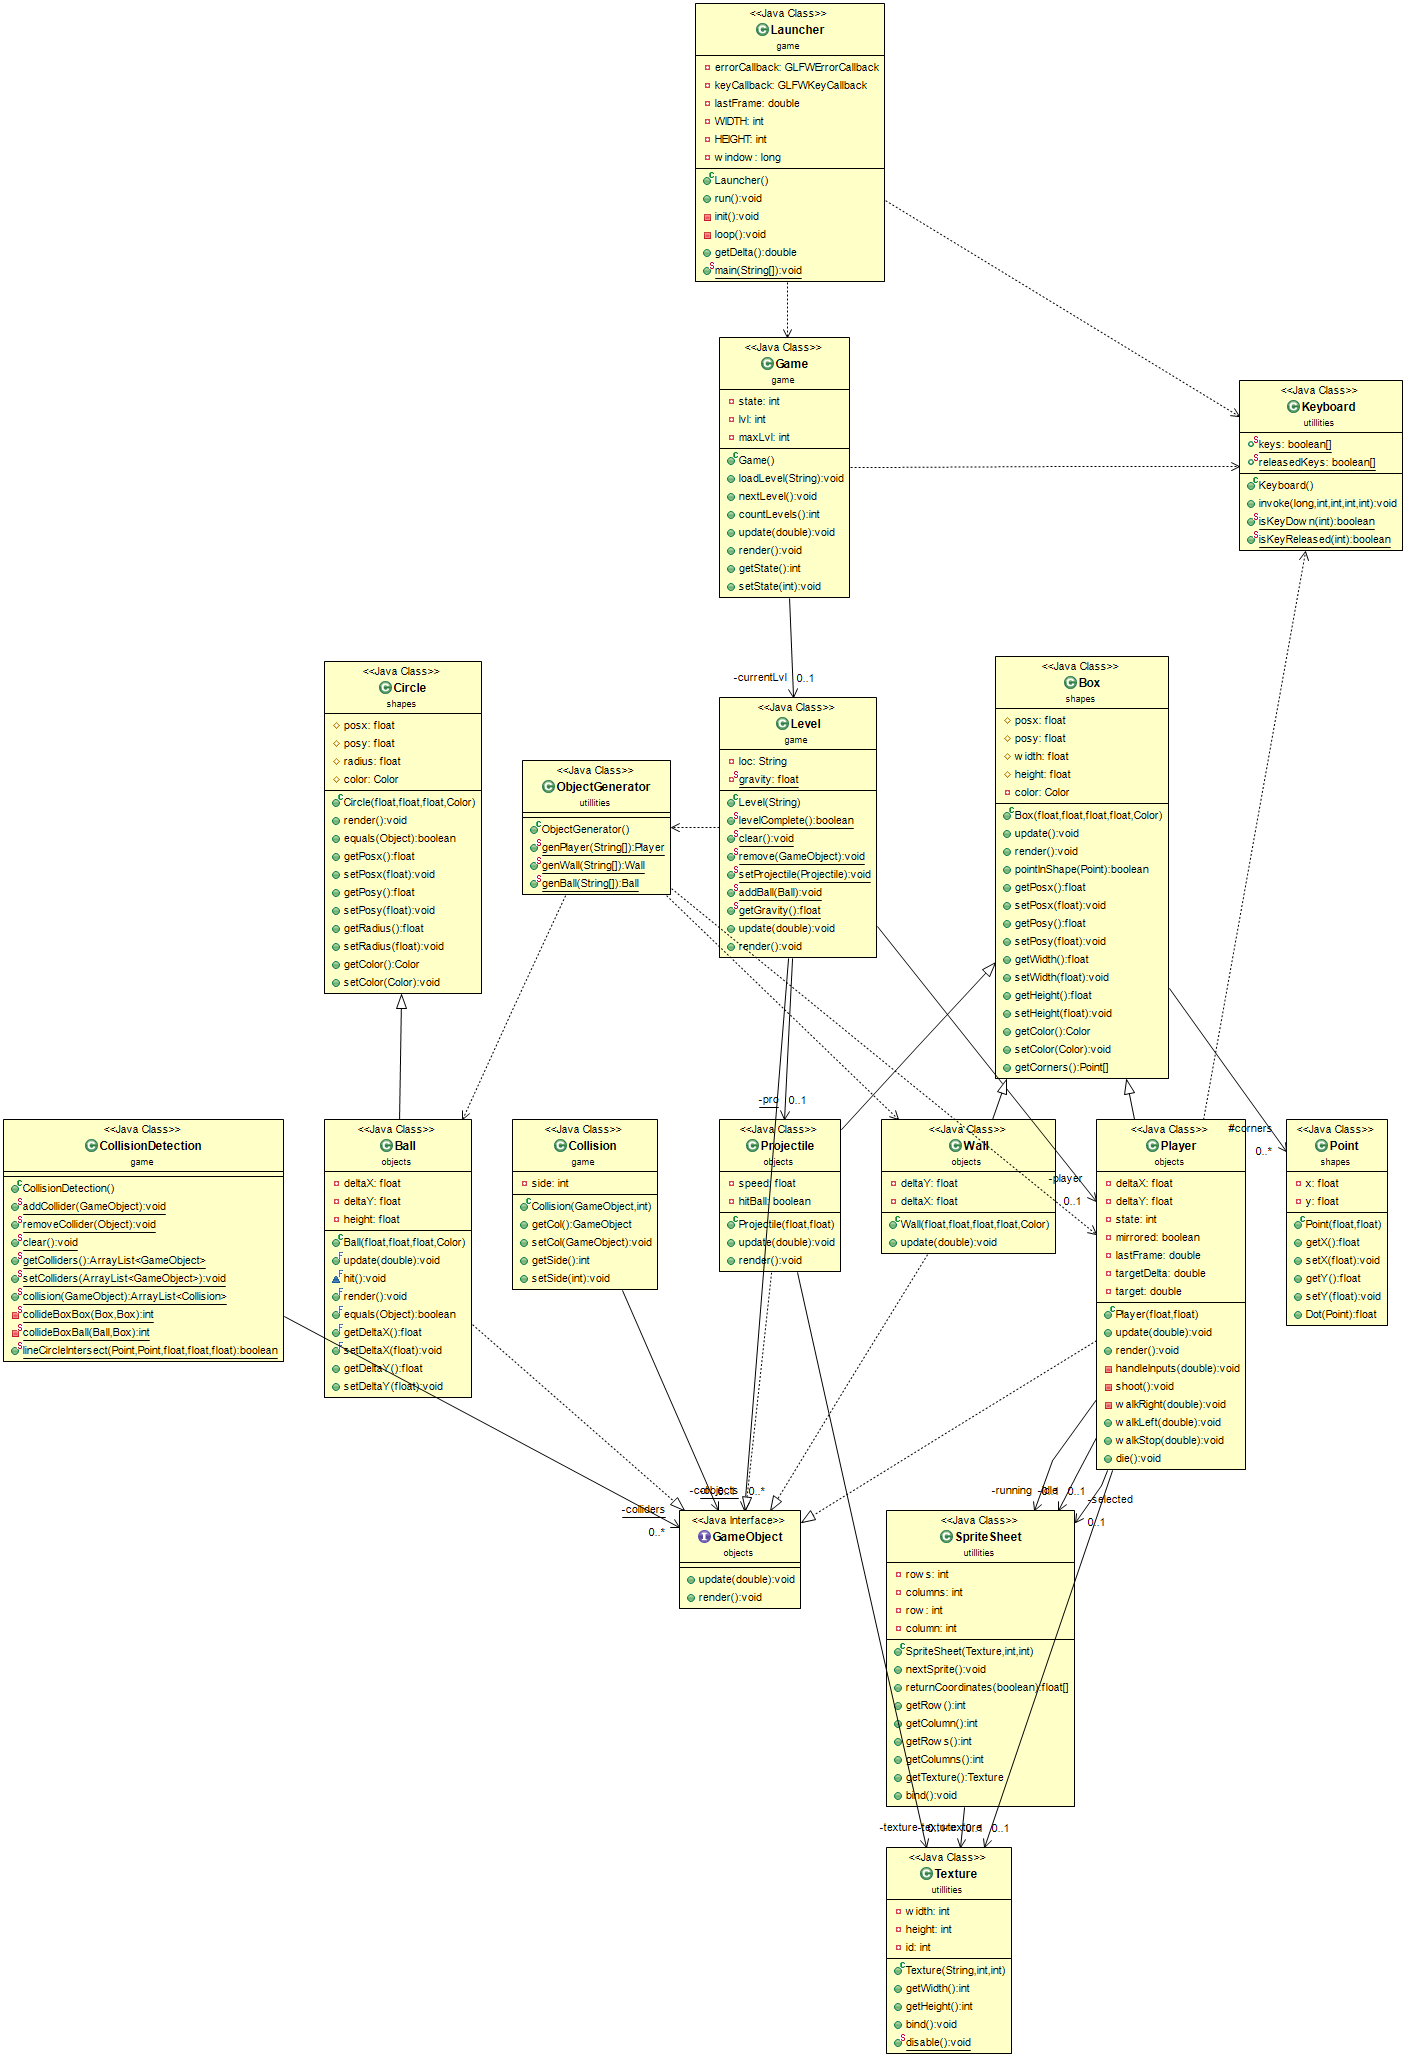
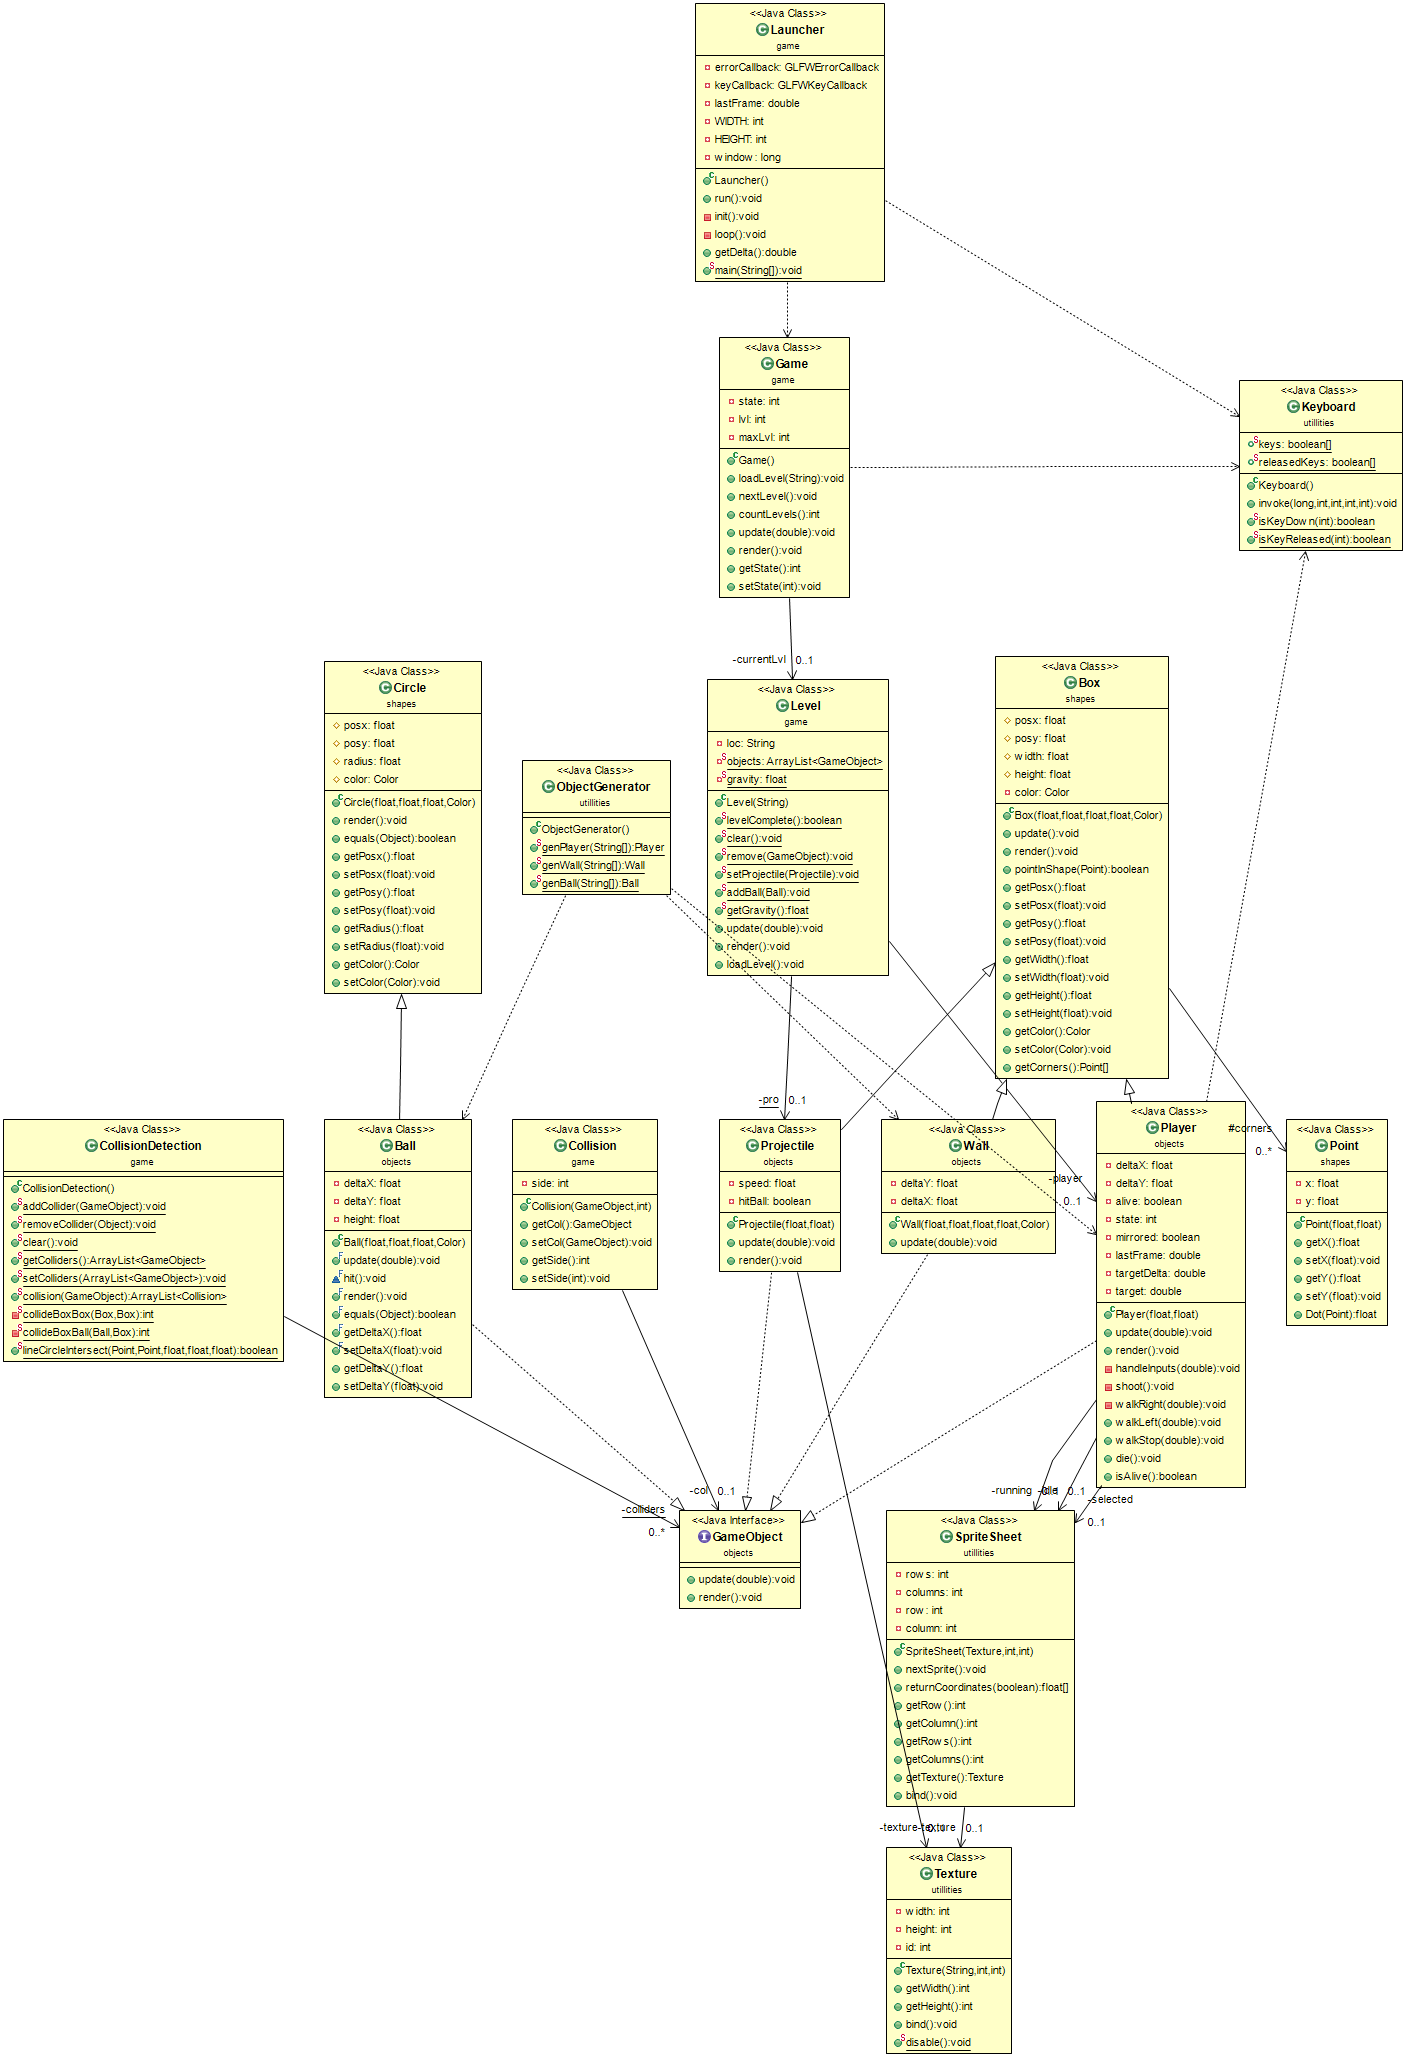
Restart level when the player dies

Changed region(s): [[0.4893, 0.3111, 0.6422, 0.4978], [0.7646, 0.5289, 0.8869, 0.5912], [0.7646, 0.7156, 0.8869, 0.7467]]

diff --git a/src/main/java/game/Level.java b/src/main/java/game/Level.java
@@ -37,49 +37,8 @@ public class Level {
 	 * @param location
 	 */
 	public Level(String location) {
-
-		clear();
-
 		loc = location;
-		InputStreamReader inputStreamReader;
-		try {
-			inputStreamReader = new InputStreamReader(new FileInputStream(
-					location));
-			BufferedReader bufferedReader = new BufferedReader(
-					inputStreamReader);
-			String line;
-			while ((line = bufferedReader.readLine()) != null) {
-
-				int parameterStart = line.indexOf('(');
-				int parameterEnd = line.indexOf(')');
-
-				if (parameterStart != -1 && parameterEnd != -1) {
-					String type = line.substring(0, parameterStart);
-					String param = line.substring(parameterStart + 1,
-							parameterEnd);
-					String[] para = param.split("\\,");
-					if (type.equals("gravity")) {
-						gravity = Float.parseFloat(para[0]);
-					} else if (type.equals("box")) {
-						Wall wall = ObjectGenerator.genWall(para);
-						objects.add(wall);
-						CollisionDetection.addCollider(wall);
-					} else if (type.equals("ball")) {
-						Ball ball = ObjectGenerator.genBall(para);
-						objects.add(ball);
-						CollisionDetection.addCollider(ball);
-					} else if (type.equals("player")) {
-						player = ObjectGenerator.genPlayer(para);
-						objects.add(0, player);
-						CollisionDetection.addCollider(player);
-					}
-				}
-			}
-			bufferedReader.close();
-		} catch (IOException e) {
-			// TODO Auto-generated catch block
-			e.printStackTrace();
-		}
+		loadLevel();
 
 	}
 
@@ -142,6 +101,9 @@ public class Level {
 		}
 		if (pro != null)
 			pro.update(deltaTime);
+
+		if(!player.isAlive())
+			loadLevel();
 	}
 
 	/**
@@ -153,6 +115,50 @@ public class Level {
 		for (GameObject render : objects) {
 			render.render();
 		}
+	}
+
+	public void loadLevel() {
+		clear();
+		InputStreamReader inputStreamReader;
+		try {
+			inputStreamReader = new InputStreamReader(new FileInputStream(
+					loc));
+			BufferedReader bufferedReader = new BufferedReader(
+					inputStreamReader);
+			String line;
+			while ((line = bufferedReader.readLine()) != null) {
+
+				int parameterStart = line.indexOf('(');
+				int parameterEnd = line.indexOf(')');
+
+				if (parameterStart != -1 && parameterEnd != -1) {
+					String type = line.substring(0, parameterStart);
+					String param = line.substring(parameterStart + 1,
+							parameterEnd);
+					String[] para = param.split("\\,");
+					if (type.equals("gravity")) {
+						gravity = Float.parseFloat(para[0]);
+					} else if (type.equals("box")) {
+						Wall wall = ObjectGenerator.genWall(para);
+						objects.add(wall);
+						CollisionDetection.addCollider(wall);
+					} else if (type.equals("ball")) {
+						Ball ball = ObjectGenerator.genBall(para);
+						objects.add(ball);
+						CollisionDetection.addCollider(ball);
+					} else if (type.equals("player")) {
+						player = ObjectGenerator.genPlayer(para);
+						objects.add(0, player);
+						CollisionDetection.addCollider(player);
+					}
+				}
+			}
+			bufferedReader.close();
+		} catch (IOException e) {
+			// TODO Auto-generated catch block
+			e.printStackTrace();
+		}
+		
 	}
 
 }

diff --git a/src/main/java/objects/Player.java b/src/main/java/objects/Player.java
@@ -34,7 +34,7 @@ import utillities.Texture;
 public class Player extends Box implements GameObject {
 	private float deltaX = 0;
 	private float deltaY = 0;
-	private Texture texture;
+	private boolean alive = true;
 	private SpriteSheet idle;
 	private SpriteSheet running;
 	private SpriteSheet selected;
@@ -52,7 +52,6 @@ public class Player extends Box implements GameObject {
 	 */
 	public Player(float posx, float posy) {
 		super(posx, posy, 60, 100, new Color(1, 1, 1));
-		texture = new Texture("res/figure.png", GL11.GL_NEAREST, GL11.GL_REPEAT);
 		idle = new SpriteSheet(new Texture("res/IdleSprite.png",
 				GL11.GL_NEAREST, GL11.GL_REPEAT), 2, 31);
 		running = new SpriteSheet(new Texture("res/Run.png", GL11.GL_NEAREST,
@@ -206,7 +205,14 @@ public class Player extends Box implements GameObject {
 	 * die: lets the player die.
 	 */
 	public void die() {
-		height = 0;
-
+		alive = false;
 	}
+
+	/**
+	 * @return the alive
+	 */
+	public boolean isAlive() {
+		return alive;
+	}
+	
 }
